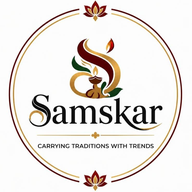
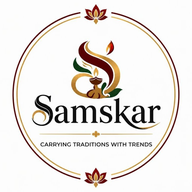
Add files via upload

Changed region(s): [[0.0312, 0.0, 0.9688, 1.0]]

diff --git a/testimonials.html b/testimonials.html
@@ -14,7 +14,7 @@
 <meta property="og:image" content="https://samskar.runs-on.dev/og-image.jpg">
 <meta property="og:site_name" content="Samskar">
 <meta name="twitter:card" content="summary_large_image">
-<meta name="theme-color" content="#6E1F2B">
+<meta name="theme-color" content="#6A0B0B">
 <link rel="manifest" href="/site.webmanifest">
 <link rel="icon" type="image/png" sizes="192x192" href="/icon-192.png">
 <link rel="apple-touch-icon" href="/icon-192.png">
@@ -25,21 +25,21 @@
 <noscript><link rel="stylesheet" href="https://fonts.googleapis.com/css2?family=Cormorant+Garamond:ital,wght@0,500;0,600;0,700;1,500;1,600&family=Jost:wght@300;400;500;600&display=swap"></noscript>
 <style>
 :root {
-  --maroon: #6E1F2B;
-  --maroon-deep: #4A141C;
-  --gold: #C79A3C;
-  --gold-light: #E7C77E;
-  --green: #2F4A3C;
+  --maroon: #6A0B0B;
+  --maroon-deep: #450707;
+  --gold: #BF934C;
+  --gold-light: #DFBB82;
+  --green: #15401C;
   --ivory: #FBF3E6;
   --ivory-dark: #F1E3C9;
-  --ink: #2B1B12;
+  --ink: #1E1513;
   --ink-soft: #5A4A3D;
-  --maroon-rgb: 110,31,43;
-  --maroon-deep-rgb: 74,20,28;
-  --gold-rgb: 199,154,60;
-  --gold-light-rgb: 231,199,126;
+  --maroon-rgb: 106,11,11;
+  --maroon-deep-rgb: 69,7,7;
+  --gold-rgb: 191,147,76;
+  --gold-light-rgb: 223,187,130;
   --ivory-rgb: 251,243,230;
-  --ink-rgb: 43,27,18;
+  --ink-rgb: 30,21,19;
   --line: rgba(var(--gold-rgb),.4);
   /* Neumorphism: a lightened ivory highlight and a maroon-deep shadow */
   --neo-hi-rgb: 255,252,246;
@@ -91,7 +91,7 @@ header.top {
   position: sticky;
   top: 0;
   z-index: 50;
-  background: rgba(var(--ivory-rgb),.92);
+  background: rgba(var(--ivory-rgb),.98);
   backdrop-filter: blur(6px);
   border-bottom: 1px solid var(--line);
 }
@@ -160,16 +160,16 @@ header.top .wrap {
   box-shadow: 0 8px 20px rgba(var(--maroon-deep-rgb),.25);
 }
 .btn-ghost {
-  background: transparent;
-  border-color: var(--maroon);
+  background: var(--ivory);
+  border-color: transparent;
   color: var(--maroon-deep);
+  box-shadow: 5px 5px 12px var(--neo-lo), -5px -5px 12px var(--neo-hi);
 }
 .btn-ghost:hover {
-  background: var(--maroon);
-  color: var(--ivory);
+  box-shadow: inset 5px 5px 11px var(--neo-lo), inset -5px -5px 11px var(--neo-hi);
 }
 .btn-sm {
-  padding: 9px 18px;
+  padding: 12px 20px;
 }
 /* ---------- Page intro ---------- */
 main {
@@ -338,6 +338,12 @@ footer {
   color: var(--maroon-deep);
   border-bottom: 1px solid var(--gold);
   padding-bottom: 2px;
+  position: relative;
+}
+.footer-social a::after {
+  content: "";
+  position: absolute;
+  inset: -12px -8px;          /* larger tap area, same look */
 }
 .footer-fine {
   font-size: 12px;

diff --git a/index.html b/index.html
@@ -148,7 +148,7 @@ header {
   position: sticky;
   top: 0;
   z-index: 50;
-  background: rgba(var(--ivory-rgb),.92);
+  background: rgba(var(--ivory-rgb),.98);
   backdrop-filter: blur(6px);
   border-bottom: 1px solid var(--line);
 }
@@ -902,7 +902,6 @@ html.door-lock {
 }
 .faq-item {
   margin-bottom: 18px;
-  padding: 18px 22px;
   background: var(--ivory);
   border-radius: 16px;
   box-shadow: var(--neo-raised-sm);
@@ -915,6 +914,12 @@ html.door-lock {
   box-shadow: var(--neo-inset);
 }
 .faq-item summary {
+  display: flex;
+  align-items: flex-start;
+  justify-content: space-between;
+  gap: 16px;
+  padding: 18px 22px;
+  border-radius: 16px;
   cursor: pointer;
   font-family: 'Cormorant Garamond',serif;
   font-weight: 600;
@@ -927,15 +932,17 @@ html.door-lock {
 }
 .faq-item summary::after {
   content: "+";
-  float: right;
+  flex: none;
   color: var(--maroon);
   font-size: 20px;
+  line-height: 1.2;
 }
 .faq-item[open] summary::after {
   content: "–";
 }
 .faq-item p {
-  margin: 12px 0 0;
+  margin: -4px 22px 0;
+  padding-bottom: 20px;
   font-size: 14.5px;
   color: var(--ink-soft);
   line-height: 1.6;
@@ -1025,6 +1032,12 @@ footer {
   color: var(--maroon-deep);
   border-bottom: 1px solid var(--gold);
   padding-bottom: 2px;
+  position: relative;
+}
+.footer-social a::after {
+  content: "";
+  position: absolute;
+  inset: -12px -8px;          /* larger tap area, same look */
 }
 .footer-fine {
   margin-top: 0;
